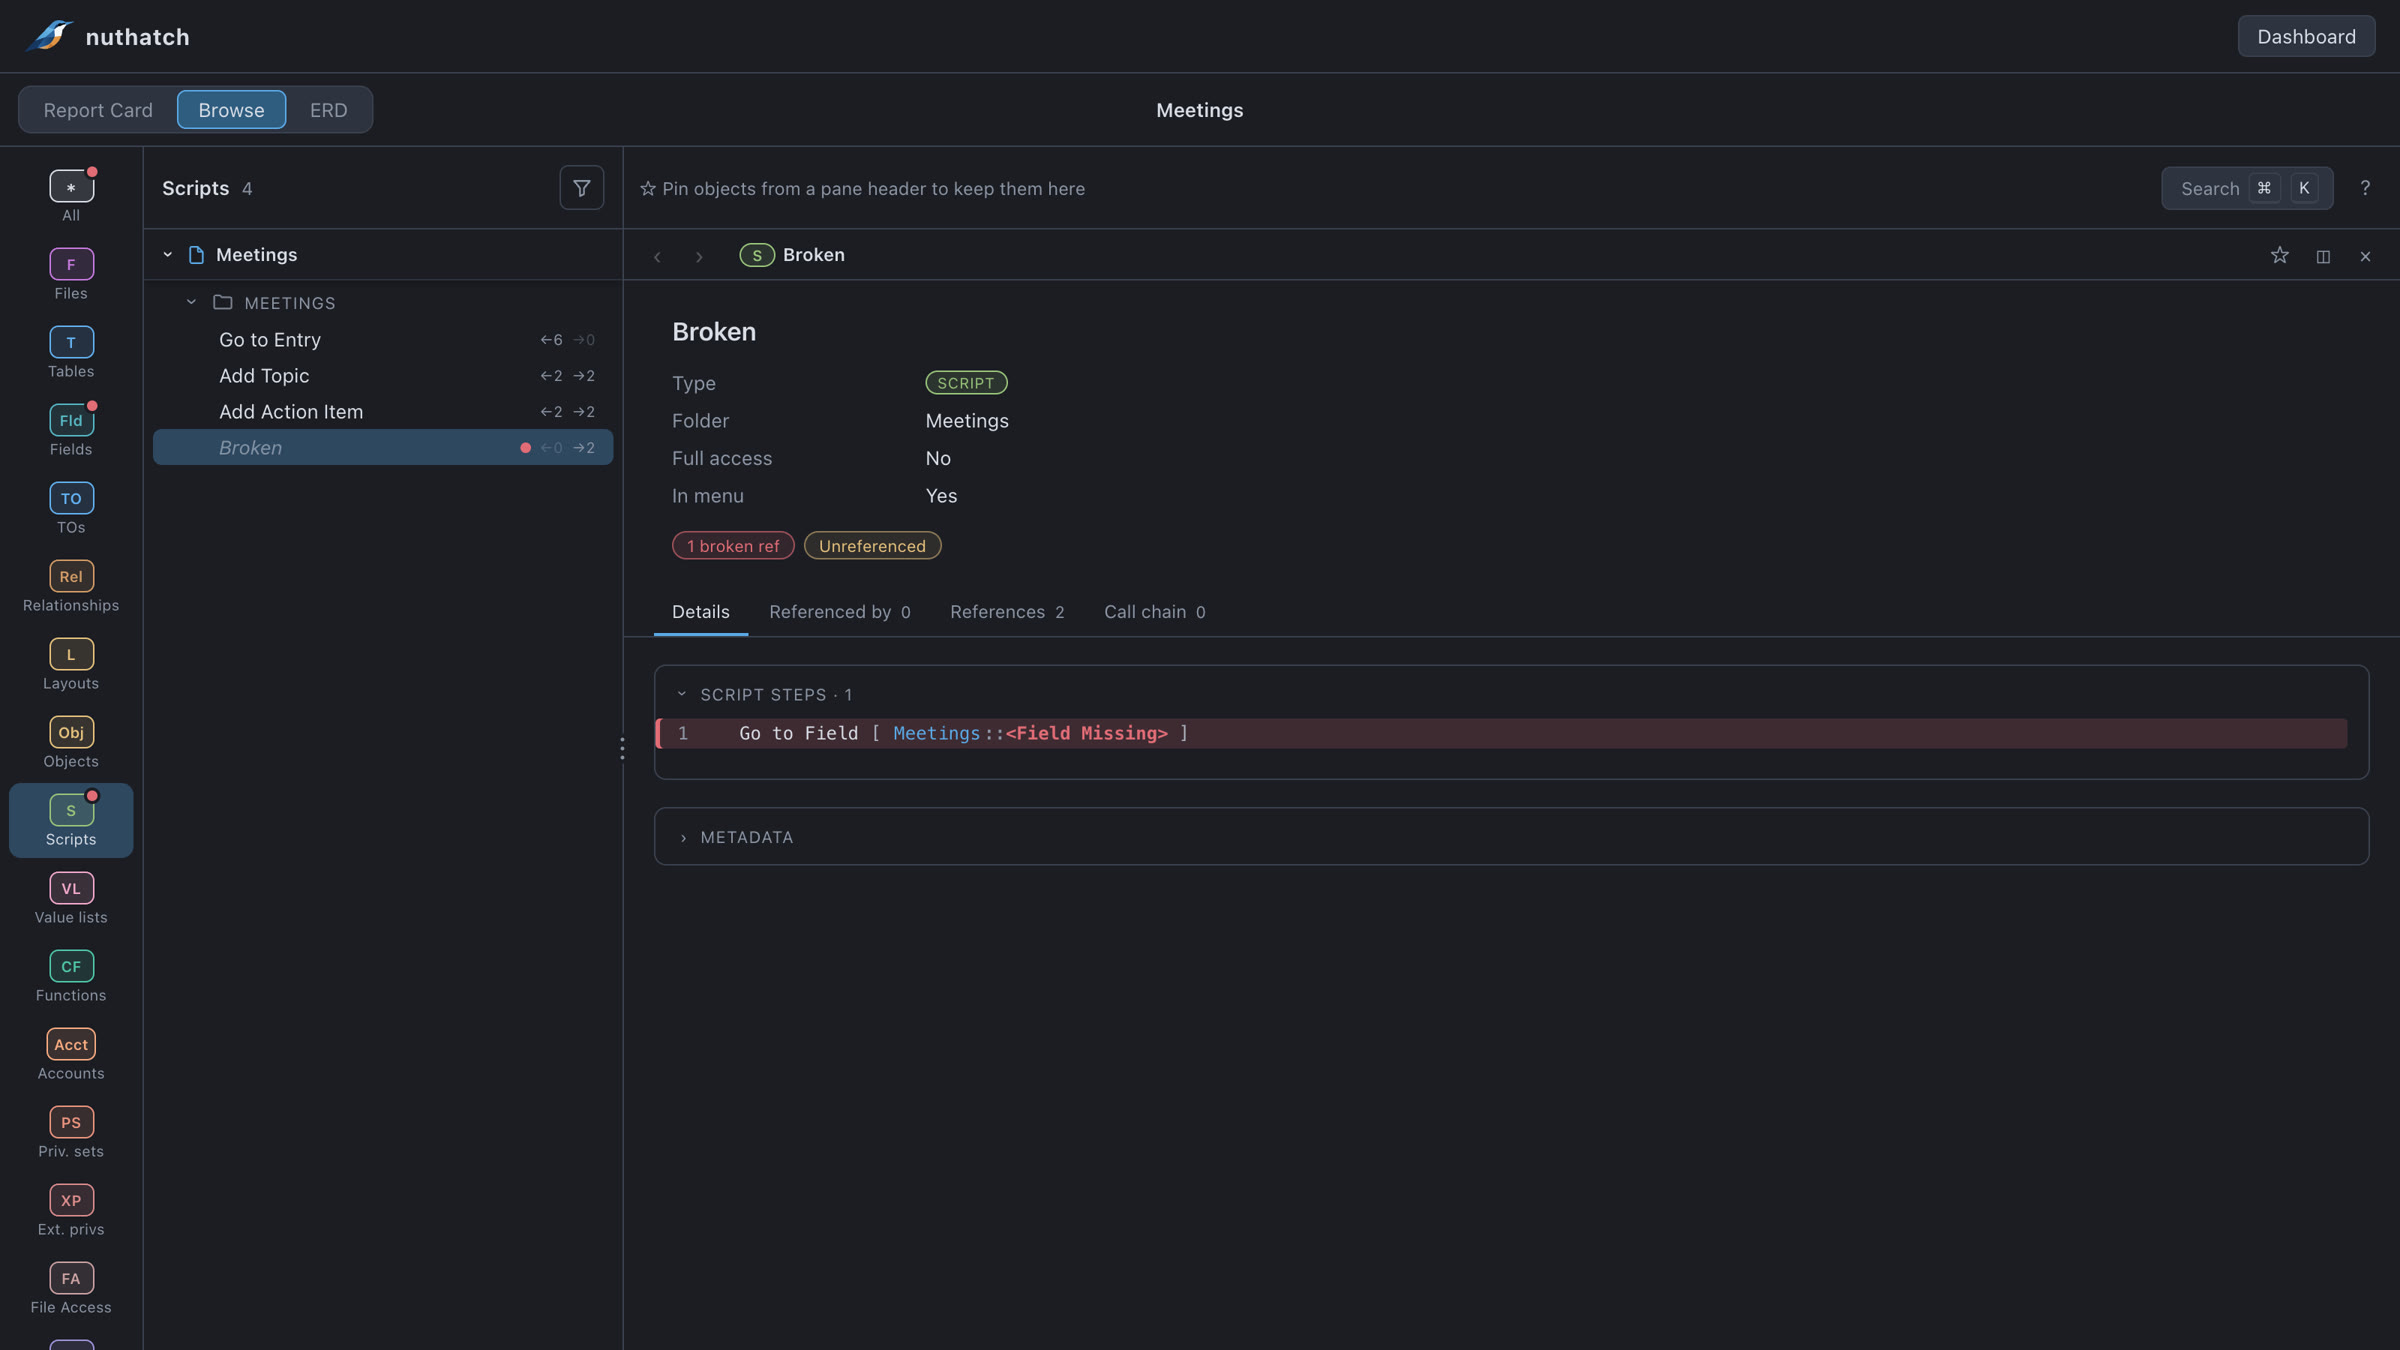
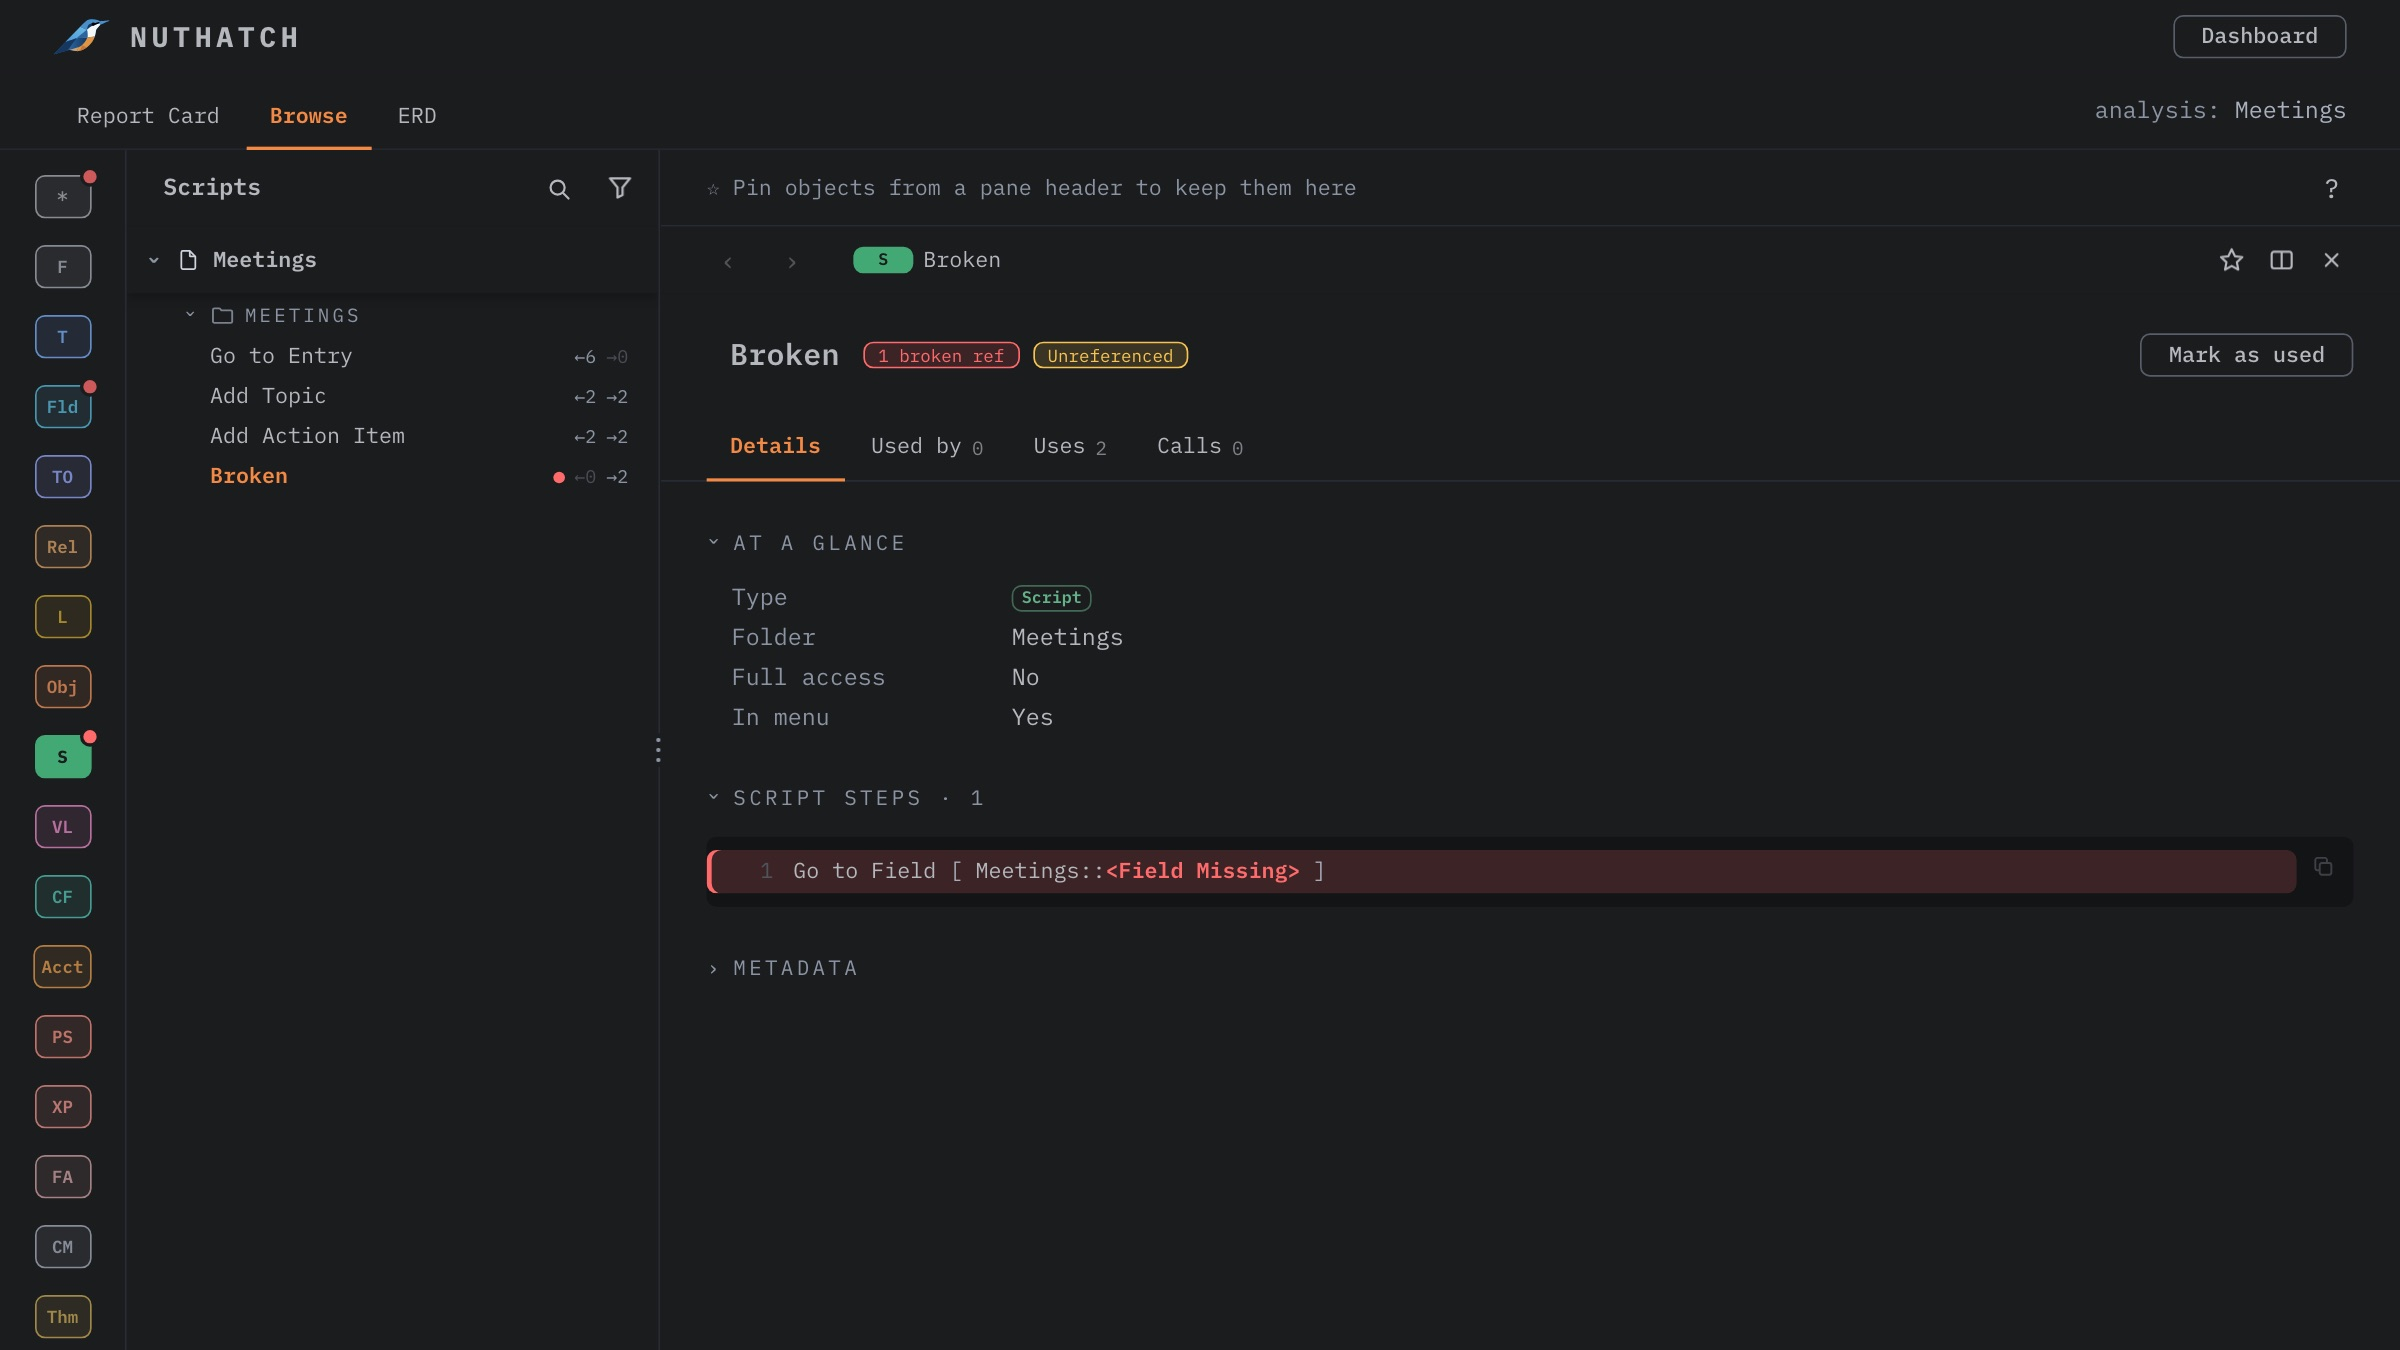
Reshoot landing screenshots, add Used by and ERD sections, drop the demo

diff --git a/docs/index.html b/docs/index.html
@@ -664,7 +664,6 @@
             </svg>
             View on GitHub
           </a>
-          <a class="btn" href="demo/full-tour-demo.mp4">Watch the demo</a>
         </div>
         </div>
         <div class="peek" aria-hidden="true">
@@ -702,10 +701,22 @@
                 behind it.
               </p>
             </div>
-            <div class="shot" style="--ratio: 2400 / 1005"><img src="shots/report-card.jpg" alt="The report card: reference counts, risk flags, and an object inventory" /></div>
+            <div class="shot" style="--ratio: 2400 / 1305"><img src="shots/report-card.jpg" alt="The report card: two objects with broken references, an account without a password, and 25 unreferenced objects" /></div>
           </div>
 
           <div class="row flip">
+            <div class="text">
+              <h2>Know what breaks before you change it</h2>
+              <p>
+                Open the Used by tab before you rename or delete something. It lists every field,
+                layout, button, and script that depends on the object, across all loaded files. Uses
+                shows the other direction, and a script's Calls tab shows its call chain.
+              </p>
+            </div>
+            <div class="shot" style="--ratio: 16 / 9"><img src="shots/used-by.jpg" alt="The Subject field's Used by tab: two fields, a layout, a layout object, and a script" /></div>
+          </div>
+
+          <div class="row">
             <div class="text">
               <h2>Jump anywhere with ⌘K</h2>
               <p>
@@ -717,7 +728,7 @@
             <div class="shot" style="--ratio: 16 / 9"><img src="shots/palette.jpg" alt="The command palette filtered to table:Topics" /></div>
           </div>
 
-          <div class="row">
+          <div class="row flip">
             <div class="text">
               <h2>Put two objects side by side</h2>
               <p>
@@ -729,7 +740,7 @@
             <div class="shot" style="--ratio: 16 / 9"><img src="shots/side-by-side.jpg" alt="Two custom functions, FormatDuration and formatDurationNew, open side by side with the navigator collapsed" /></div>
           </div>
 
-          <div class="row flip">
+          <div class="row">
             <div class="text">
               <h2>See what changed</h2>
               <p>
@@ -737,7 +748,19 @@
                 and changed scripts and calculations show a line-by-line diff.
               </p>
             </div>
-            <div class="shot" style="--ratio: 16 / 9"><img src="shots/compare.jpg" alt="Comparing two analyses of the same solution" /></div>
+            <div class="shot" style="--ratio: 16 / 9"><img src="shots/compare.jpg" alt="Comparing two versions of the Meetings solution: added and renamed objects, and the line diff of a changed script" /></div>
+          </div>
+
+          <div class="row flip">
+            <div class="text">
+              <h2>See how your tables connect</h2>
+              <p>
+                The ERD tab draws the relationship graph with each table occurrence in its FileMaker
+                color. Color the lines by cascade delete, record creation, or sorting, click a box to
+                highlight the other occurrences of its table, and double-click it to show its fields.
+              </p>
+            </div>
+            <div class="shot" style="--ratio: 2400 / 700"><img src="shots/erd.jpg" alt="The relationship graph: Meetings related to Topics and Action Items, and the unrelated Topics New occurrence" /></div>
           </div>
         </div>
       </div>

diff --git a/README.md b/README.md
@@ -26,16 +26,6 @@ webview. Nothing is uploaded, and there is no backend or telemetry.
 
 ---
 
-## Demo
-
-A walkthrough covering the report card, browsing and filtering, the ⌘K
-command palette, the relationship graph, and comparing two analyses of the
-same solution:
-
-<video src="https://github.com/user-attachments/assets/63390d70-31c6-49dd-94a2-5fd3508e5cff" controls width="100%"></video>
-
----
-
 ## Install
 
 nuthatch runs two ways from the same codebase. Pick one:
